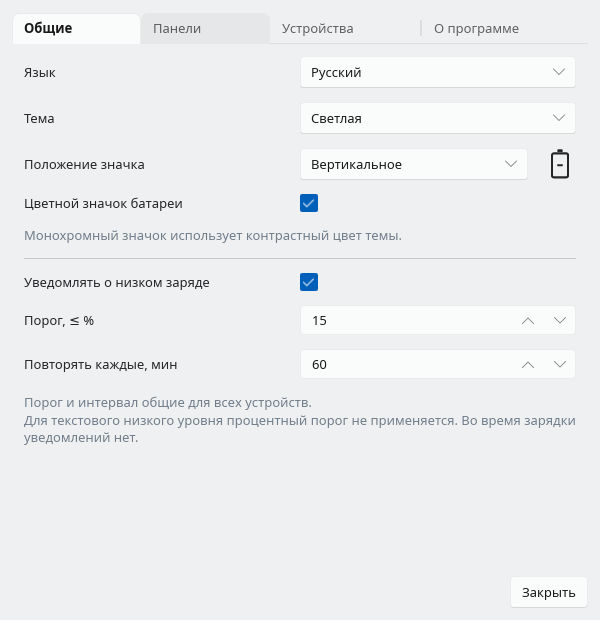
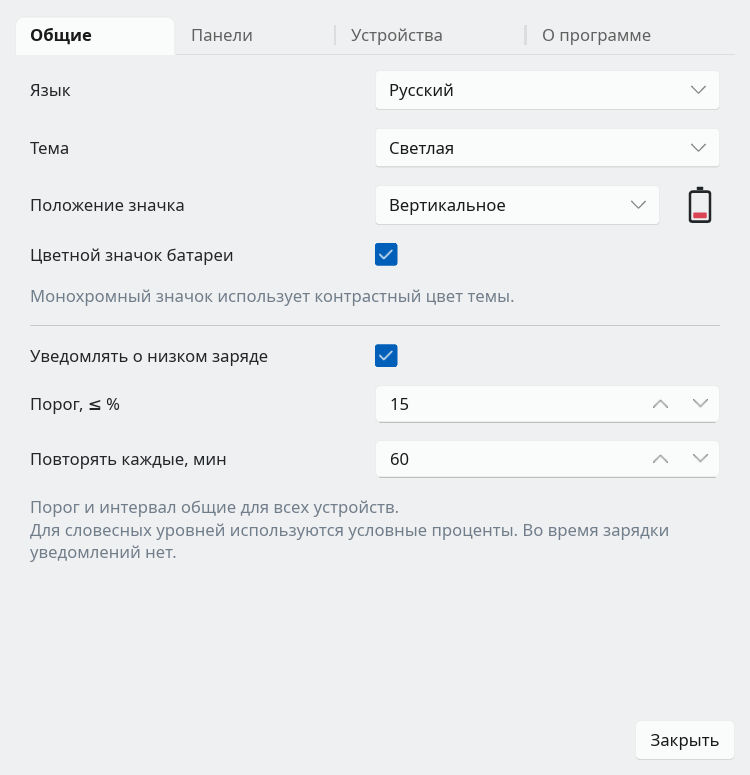
Fix settings font stability and unify battery percentages

diff --git a/src/device.rs b/src/device.rs
@@ -57,14 +57,25 @@ pub struct Reading {
 }
 
 impl Reading {
+    pub fn percentage(&self) -> Option<u8> {
+        self.percent.or_else(|| match self.level.as_deref()? {
+            "Критический" => Some(10),
+            "Низкий" => Some(25),
+            "Средний" => Some(50),
+            "Высокий" => Some(75),
+            "Полный" => Some(100),
+            _ => None,
+        })
+    }
+
     pub fn text(&self) -> String {
         let value = self
-            .percent
+            .percentage()
             .map(|p| format!("{p}%"))
             .or_else(|| self.level.clone())
             .unwrap_or_else(|| "Нет данных".into());
         if self.charging {
-            if self.percent.is_some() {
+            if self.percentage().is_some() {
                 format!("ϟ {value}")
             } else {
                 "Заряжается".into()
@@ -75,12 +86,7 @@ impl Reading {
     }
 
     pub fn low(&self, threshold: u8) -> bool {
-        !self.charging
-            && (self.percent.is_some_and(|p| p <= threshold)
-                || self
-                    .level
-                    .as_deref()
-                    .is_some_and(|s| matches!(s, "Низкий" | "Критический")))
+        !self.charging && self.percentage().is_some_and(|p| p <= threshold)
     }
 }
 
@@ -94,21 +100,12 @@ pub enum Band {
 
 impl Reading {
     pub fn band(&self) -> Option<Band> {
-        if let Some(percent) = self.percent {
-            return Some(match percent {
-                100 => Band::Full,
-                51..=99 => Band::High,
-                26..=50 => Band::Medium,
-                _ => Band::Low,
-            });
-        }
-        match self.level.as_deref()? {
-            "Критический" | "Низкий" => Some(Band::Low),
-            "Средний" => Some(Band::Medium),
-            "Высокий" => Some(Band::High),
-            "Полный" => Some(Band::Full),
-            _ => None,
-        }
+        self.percentage().map(|percent| match percent {
+            100 => Band::Full,
+            51..=99 => Band::High,
+            26..=50 => Band::Medium,
+            _ => Band::Low,
+        })
     }
 }
 
@@ -193,12 +190,57 @@ mod tests {
             level: Some("Низкий".into()),
             ..Default::default()
         };
-        assert!(coarse.low(0));
+        assert!(!coarse.low(24));
+        assert!(coarse.low(25));
         assert_eq!(coarse.band(), Some(Band::Low));
         coarse.charging = true;
         assert!(!coarse.low(100));
         assert_eq!(Reading::default().band(), None);
         assert_eq!(address("AA_BB_CC_DD_EE_FF"), address("aa:bb:cc:dd:ee:ff"));
         assert!(address("aa:bb:cc:dd:ee:ff:00").is_none());
+    }
+
+    #[test]
+    fn estimated_levels_share_percentage_bands_and_thresholds() {
+        for (level, percent, band) in [
+            ("Критический", 10, Band::Low),
+            ("Низкий", 25, Band::Low),
+            ("Средний", 50, Band::Medium),
+            ("Высокий", 75, Band::High),
+            ("Полный", 100, Band::Full),
+        ] {
+            let mut reading = Reading {
+                level: Some(level.into()),
+                approximate: true,
+                ..Default::default()
+            };
+            assert_eq!(reading.percentage(), Some(percent));
+            assert_eq!(reading.text(), format!("{percent}%"));
+            assert_eq!(reading.band(), Some(band));
+            assert!(reading.low(percent));
+            assert!(!reading.low(percent - 1));
+            assert_eq!(reading.percent, None);
+            reading.charging = true;
+            assert_eq!(reading.text(), format!("ϟ {percent}%"));
+            assert!(!reading.low(100));
+            reading.percent = Some(0);
+            assert_eq!(reading.percentage(), Some(0));
+        }
+        let unknown = Reading {
+            level: Some("Unknown".into()),
+            ..Default::default()
+        };
+        assert_eq!(unknown.percentage(), None);
+        assert_eq!(unknown.band(), None);
+        assert!(!unknown.low(100));
+        assert_eq!(Reading::default().text(), "Нет данных");
+        assert_eq!(
+            Reading {
+                charging: true,
+                ..Default::default()
+            }
+            .text(),
+            "Заряжается"
+        );
     }
 }

diff --git a/src/system.rs b/src/system.rs
@@ -78,13 +78,12 @@ fn sysfs(scan: &mut Scan, folder: &Path) {
             _ => None,
         }
         .map(str::to_owned);
-        if device.reading.level.is_none() {
-            device.reading.percent = read(&path, "capacity")
-                .parse::<u8>()
-                .ok()
-                .filter(|p| *p <= 100);
-        }
-        device.reading.approximate = device.reading.level.is_some();
+        device.reading.percent = read(&path, "capacity")
+            .parse::<u8>()
+            .ok()
+            .filter(|p| *p <= 100);
+        device.reading.approximate =
+            device.reading.percent.is_none() && device.reading.level.is_some();
         scan.insert(device);
     }
 }
@@ -354,7 +353,7 @@ mod tests {
             assert_eq!(scan.devices.len(), 2);
             assert_ne!(scan.devices[0].id, scan.devices[1].id);
             assert!(scan.devices[0].id.contains("aa:bb:cc:dd:ee:ff"));
-            assert_eq!(scan.devices[0].reading.text(), "Низкий");
+            assert_eq!(scan.devices[0].reading.text(), "25%");
             assert_eq!(scan.devices[1].reading.text(), "0%");
             assert_eq!(scan.devices[1].kind, Kind::Mouse);
         });
@@ -370,7 +369,7 @@ mod tests {
         let d = upower_device("/mouse", &p).unwrap();
         assert_ne!(d.id, upower_device("/another_mouse", &p).unwrap().id);
         assert_eq!(d.reading.percent, None);
-        assert_eq!(d.reading.text(), "Низкий");
+        assert_eq!(d.reading.text(), "25%");
         p.insert("BatteryLevel".into(), OwnedVariant::from(0u32));
         assert!(!upower_device("/mouse", &p).unwrap().has_reading());
         p.insert("BatteryLevel".into(), OwnedVariant::from(1u32));

diff --git a/src/notify.rs b/src/notify.rs
@@ -79,12 +79,12 @@ mod tests {
     use super::*;
     use crate::device::{Device, Kind};
     #[test]
-    fn common_interval_and_threshold_preserve_coarse_levels_and_suppress_stale_and_charging() {
+    fn common_interval_and_threshold_include_estimates_and_suppress_stale_and_charging() {
         let catalog = crate::i18n::Catalog::load("Russian");
         let mut percent = Device::new("one".into(), "Mouse".into(), Kind::Mouse, "HID");
         percent.reading.percent = Some(15);
         let mut coarse = Device::new("two".into(), "Pad".into(), Kind::Gamepad, "UPower");
-        coarse.reading.level = Some("Низкий".into());
+        coarse.reading.level = Some("Критический".into());
         let mut scan = Scan {
             devices: vec![percent, coarse],
             warnings: vec![],
@@ -102,10 +102,14 @@ mod tests {
             serde_json::from_str(&serde_json::to_string(&config).unwrap()).unwrap();
         assert_eq!(due(&restored, &scan, 13600, &catalog).len(), 2);
         config.low_threshold = 5;
-        assert_eq!(due(&config, &scan, 13600, &catalog).len(), 1);
+        assert!(due(&config, &scan, 13600, &catalog).is_empty());
+        config.low_threshold = 10;
         config.repeat_minutes = 120;
         assert!(due(&config, &scan, 13600, &catalog).is_empty());
         assert!(due(&config, &Scan::default(), 20000, &catalog).is_empty());
+        let critical = due(&config, &scan, 20000, &catalog);
+        assert_eq!(critical.len(), 1);
+        assert!(critical[0].1.contains("10%"));
         scan.devices[1].reading.charging = true;
         assert!(due(&config, &scan, 20000, &catalog).is_empty());
         config.notifications = false;

diff --git a/src/icons.rs b/src/icons.rs
@@ -236,22 +236,40 @@ fn load_slint_image(path: &Path) -> Option<slint::Image> {
     }
 }
 
+pub fn charge_color(band: crate::device::Band) -> crate::theme::Rgb {
+    use crate::{device::Band, theme::Rgb};
+    match band {
+        Band::Low => Rgb {
+            r: 0xda,
+            g: 0x44,
+            b: 0x53,
+        },
+        Band::Medium => Rgb {
+            r: 0xfd,
+            g: 0xbc,
+            b: 0x4b,
+        },
+        Band::High | Band::Full => Rgb {
+            r: 0x27,
+            g: 0xae,
+            b: 0x60,
+        },
+    }
+}
+
 pub fn tray_svg(
     band: Option<crate::device::Band>,
     orientation: u8,
     colored: bool,
     dark: bool,
 ) -> String {
-    use crate::device::Band;
     let ink = if dark { "#fcfcfc" } else { "#232629" };
-    let fill = if !colored {
-        ink
-    } else {
-        match band {
-            Some(Band::Low) => "#da4453",
-            Some(Band::Medium) => "#fdbc4b",
-            _ => "#27ae60",
+    let fill = match band.filter(|_| colored) {
+        Some(band) => {
+            let rgb = charge_color(band);
+            format!("#{:02x}{:02x}{:02x}", rgb.r, rgb.g, rgb.b)
         }
+        None => ink.into(),
     };
     let angle = match orientation {
         0 => 90,

diff --git a/src/main.rs b/src/main.rs
@@ -468,8 +468,8 @@ fn paint(shell: &Shell, state: &State) {
             window.global::<Translations>().set_strings(labels.clone());
             window.set_dark(dark);
             window.set_ui_font_family(font.family.clone().into());
-            let scale = window.window().scale_factor().max(1.0);
-            window.set_ui_font_size((font.size_px * scale).round() / scale);
+            // Slint applies DPI scaling; rounding before mapping changed the font on the next repaint.
+            window.set_ui_font_size(font.size_px);
             window.set_ui_font_weight(font.weight);
             let breeze = window.global::<Breeze>();
             breeze.set_window(color(palette.window));
@@ -587,7 +587,12 @@ fn row(
         detail: source.into(),
         icon,
         tint,
-        low: reading.low(15),
+        charge_color: reading
+            .band()
+            .map(icons::charge_color)
+            .map(color)
+            .unwrap_or_default(),
+        has_percent: reading.percentage().is_some(),
         added,
     }
 }

diff --git a/src/i18n.rs b/src/i18n.rs
@@ -82,7 +82,7 @@ impl Catalog {
     }
 
     pub fn reading(&self, reading: &crate::device::Reading) -> String {
-        if reading.charging && reading.percent.is_none() {
+        if reading.charging && reading.percentage().is_none() {
             return self.tr("Charging");
         }
         let text = reading.text();
@@ -313,7 +313,7 @@ mod tests {
                 level: Some("Низкий".into()),
                 ..Default::default()
             }),
-            "Low"
+            "25%"
         );
         assert_eq!(
             ru.message("System D-Bus unavailable: timeout"),

diff --git a/chit/map.md b/chit/map.md
@@ -1,14 +1,14 @@
 # map
 
 - `src/main.rs` — приложение, фоновый опрос, создание окон по запросу, анимации и настройки.
-- `src/device.rs` — устройства с отдельным ID на источник, показания и ступени заполнения значка.
+- `src/device.rs` — устройства с отдельным ID на источник, общие проценты для числовых/словесных показаний и ступени заполнения значка.
 - `src/system.rs` — Linux `power_supply`, BlueZ и UPower через `zbus`.
 - `src/hid.rs` — ограниченный выбор HID-интерфейсов и запросы заряда через `hidapi`.
 - `src/config.rs` — настройки, выбранные источники, последние показания, история и время уведомлений в `~/.config/shinpi/config.json`.
 - `src/notices.rs` — последние 20 уведомлений, время записей и анимация удаления.
 - `src/notify.rs` — общий порог/интервал и уведомления через `org.freedesktop.Notifications`.
 - `src/i18n.rs`, `languages/*.ini` — English/русский, системная локаль, ручной выбор и внешние переводы.
-- `src/theme.rs`, `src/icons.rs` — темы, шрифты KDE и значки.
+- `src/theme.rs`, `src/icons.rs` — темы, шрифты KDE, значки и общая шкала цветов заряда.
 - `src/updates.rs` — ручная проверка стабильного релиза GitHub и открытие ссылок через desktop portal.
 - `src/tray.rs` — StatusNotifier через `ksni`.
 - `src/place.rs`, `kwin/placer.js` — размещение связанных панелей устройств и уведомлений у панели KWin.

diff --git a/README.md b/README.md
@@ -56,6 +56,8 @@
 
 The empty panel's `Add` button disappears after selecting a device; further devices are added through Settings. Sources are listed separately, so choose the source that works best for each device.
 
+Discrete battery levels are displayed as estimates: Critical `10%`, Low `25%`, Normal `50%`, High `75%`, Full `100%`. These estimates use the same color scale and notification threshold as numeric readings.
+
 </details>
 
 ---
